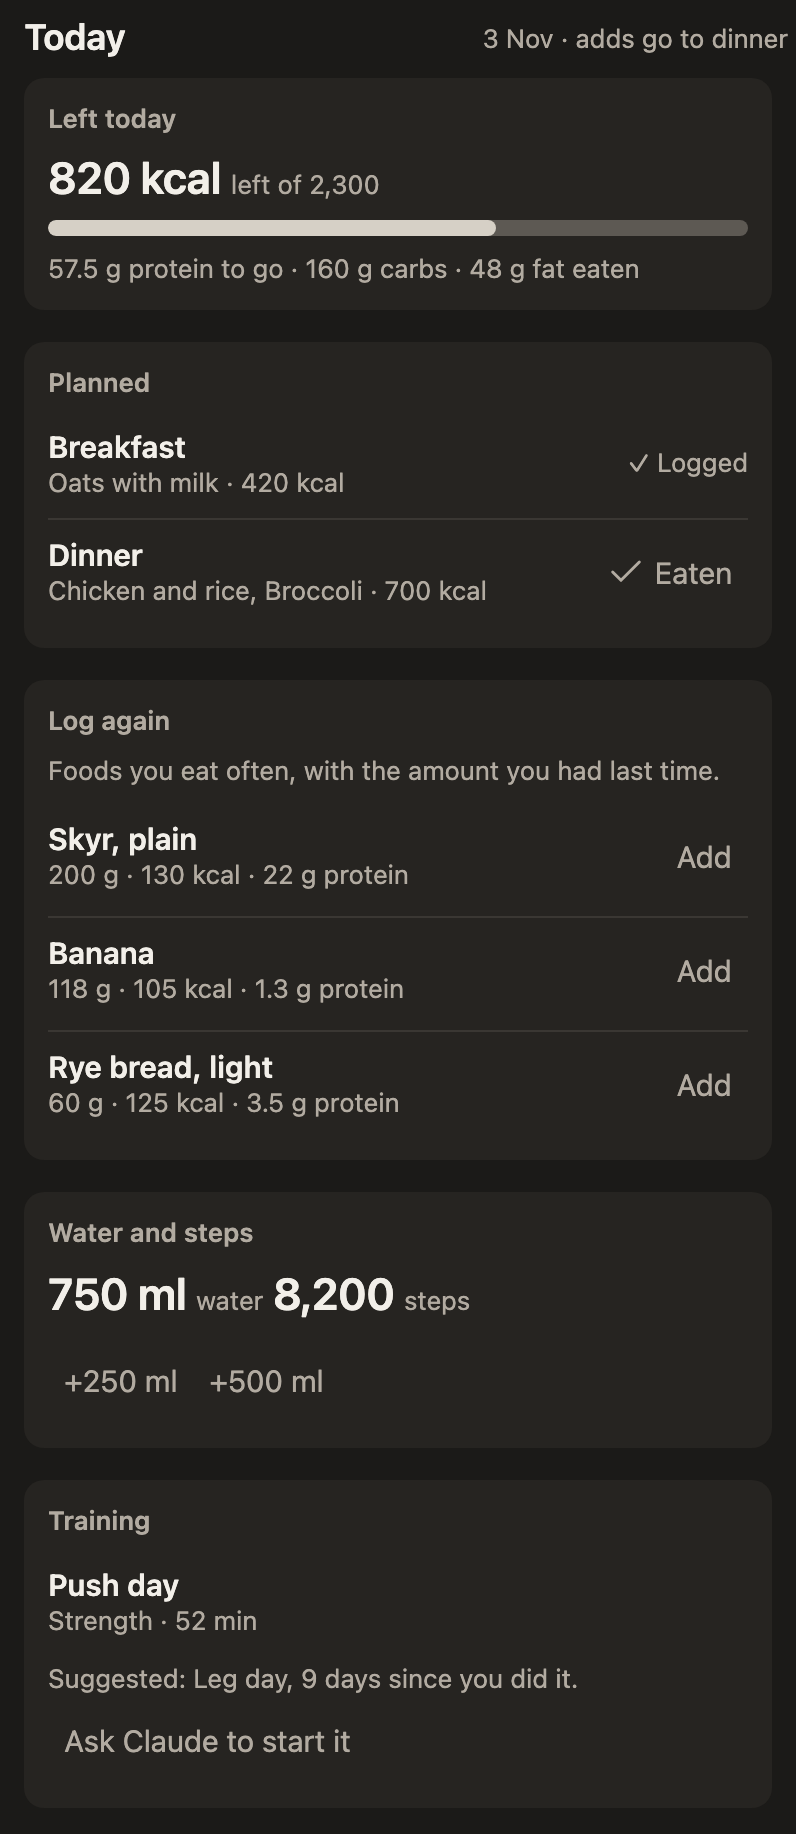
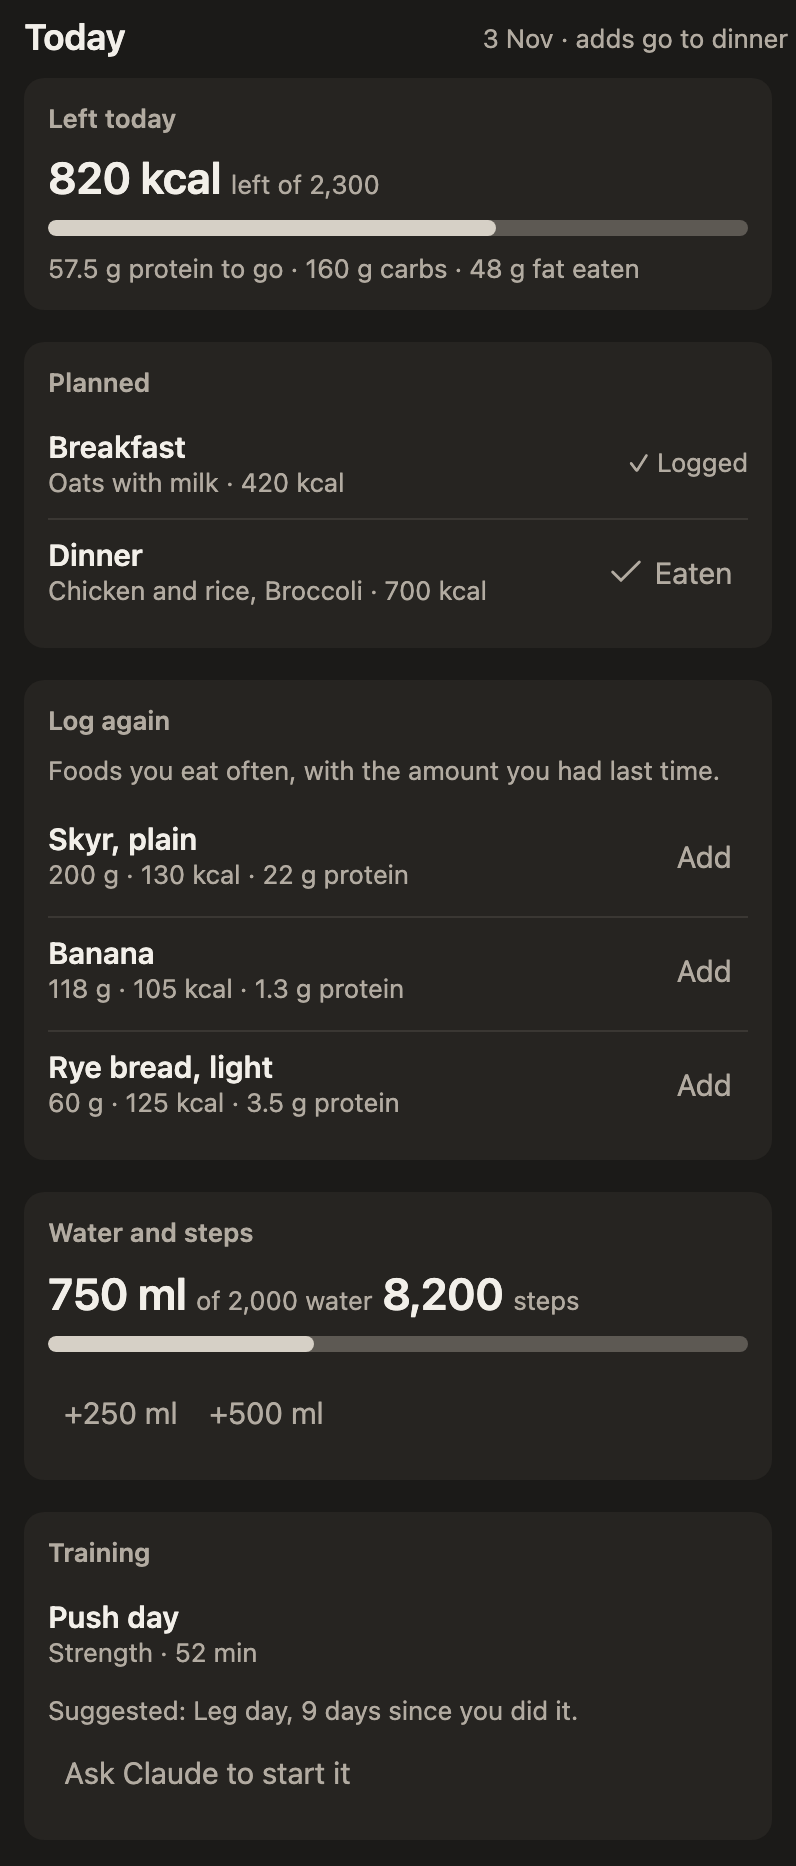
Saved water goal: set_goals water_ml, shown on Today with a bar and counted in get_progress (#132)
Migration 0028 adds goals.water_ml (additive).

diff --git a/apps/mcp/src/data/userData.ts b/apps/mcp/src/data/userData.ts
@@ -40,6 +40,8 @@ export interface Goals {
   addedSugarG: number | null;
   /** Hours of sleep to aim for a night. */
   sleepH: number | null;
+  /** Millilitres of water to drink a day. */
+  waterMl: number | null;
 }
 
 export interface FoodEntry extends Nutrients {
@@ -207,6 +209,7 @@ export class UserData {
       satFatG: (r.sat_fat_g as number | null) ?? null,
       addedSugarG: (r.added_sugar_g as number | null) ?? null,
       sleepH: (r.sleep_h as number | null) ?? null,
+      waterMl: (r.water_ml as number | null) ?? null,
     };
   }
 
@@ -217,21 +220,21 @@ export class UserData {
   }
 
   async setGoals(patch: Partial<Goals>): Promise<Goals> {
-    const empty: Goals = { kcal: null, proteinG: null, carbsG: null, fatG: null, workoutsPerWeek: null, goalWeightKg: null, fiberG: null, satFatG: null, addedSugarG: null, sleepH: null };
+    const empty: Goals = { kcal: null, proteinG: null, carbsG: null, fatG: null, workoutsPerWeek: null, goalWeightKg: null, fiberG: null, satFatG: null, addedSugarG: null, sleepH: null, waterMl: null };
     const before = await this.goals();
     const g = { ...empty, ...before, ...patch };
     // A new goal weight (not a repeat of the same one) starts its streak today, in the person's own time zone.
     const since = g.goalWeightKg === null ? null : g.goalWeightKg === (before?.goalWeightKg ?? null) ? await this.goalWeightSince() : todayIn((await this.profile()).timeZone, new Date(this.now()));
     await this.db
       .prepare(
-        `INSERT INTO goals (user_id, kcal, protein_g, carbs_g, fat_g, workouts_per_week, goal_weight_kg, fiber_g, sat_fat_g, added_sugar_g, sleep_h, goal_weight_since, updated_at)
-         VALUES (?, ?, ?, ?, ?, ?, ?, ?, ?, ?, ?, ?, ?)
+        `INSERT INTO goals (user_id, kcal, protein_g, carbs_g, fat_g, workouts_per_week, goal_weight_kg, fiber_g, sat_fat_g, added_sugar_g, sleep_h, water_ml, goal_weight_since, updated_at)
+         VALUES (?, ?, ?, ?, ?, ?, ?, ?, ?, ?, ?, ?, ?, ?)
          ON CONFLICT (user_id) DO UPDATE SET kcal = excluded.kcal, protein_g = excluded.protein_g, carbs_g = excluded.carbs_g,
            fat_g = excluded.fat_g, workouts_per_week = excluded.workouts_per_week, goal_weight_kg = excluded.goal_weight_kg,
-           fiber_g = excluded.fiber_g, sat_fat_g = excluded.sat_fat_g, added_sugar_g = excluded.added_sugar_g, sleep_h = excluded.sleep_h,
+           fiber_g = excluded.fiber_g, sat_fat_g = excluded.sat_fat_g, added_sugar_g = excluded.added_sugar_g, sleep_h = excluded.sleep_h, water_ml = excluded.water_ml,
            goal_weight_since = excluded.goal_weight_since, updated_at = excluded.updated_at`,
       )
-      .bind(this.userId, g.kcal, g.proteinG, g.carbsG, g.fatG, g.workoutsPerWeek, g.goalWeightKg, g.fiberG, g.satFatG, g.addedSugarG, g.sleepH, since, this.now())
+      .bind(this.userId, g.kcal, g.proteinG, g.carbsG, g.fatG, g.workoutsPerWeek, g.goalWeightKg, g.fiberG, g.satFatG, g.addedSugarG, g.sleepH, g.waterMl, since, this.now())
       .run();
     return g;
   }

diff --git a/apps/mcp/src/tools/profile.ts b/apps/mcp/src/tools/profile.ts
@@ -121,7 +121,7 @@ export function registerProfileTools(server: McpServer, deps: { data: UserData; 
     'set_goals',
     {
       title: 'Set goals',
-      description: 'Save daily calorie and macro targets, a fibre target, limits for saturated fat and added sugar, hours of sleep a night, workouts per week and goal weight; only the ones given change. Use null to clear one.',
+      description: 'Save daily calorie and macro targets, a fibre target, limits for saturated fat and added sugar, hours of sleep a night, a daily water goal, workouts per week and goal weight; only the ones given change. Use null to clear one.',
       inputSchema: z.object({
         kcal: z.number().min(800).max(6000).nullable().optional(),
         protein_g: z.number().min(0).max(500).nullable().optional(),
@@ -133,6 +133,7 @@ export function registerProfileTools(server: McpServer, deps: { data: UserData; 
         sat_fat_g: z.number().min(0).max(100).nullable().optional().describe('Daily limit for saturated fat'),
         added_sugar_g: z.number().min(0).max(200).nullable().optional().describe('Daily limit for added sugar'),
         sleep_h: z.number().min(4).max(12).nullable().optional().describe('Hours of sleep to aim for a night (4 to 12); the dashboard draws it as a line. Only set it when the person asks for a sleep goal.'),
+        water_ml: z.number().int().min(500).max(10000).nullable().optional().describe('Millilitres of water to drink a day; Today shows how much is left. Only set it when the person asks for a water goal.'),
       }),
       annotations: { readOnlyHint: false, destructiveHint: true, idempotentHint: true },
     },
@@ -148,6 +149,7 @@ export function registerProfileTools(server: McpServer, deps: { data: UserData; 
         ...(a.sat_fat_g !== undefined && { satFatG: a.sat_fat_g }),
         ...(a.added_sugar_g !== undefined && { addedSugarG: a.added_sugar_g }),
         ...(a.sleep_h !== undefined && { sleepH: a.sleep_h }),
+        ...(a.water_ml !== undefined && { waterMl: a.water_ml }),
       };
       const goals = await data.setGoals(patch);
       // Deterministic sanity check: do the macros add up to the calorie target?

diff --git a/apps/mcp/src/analytics/progress.ts b/apps/mcp/src/analytics/progress.ts
@@ -209,7 +209,7 @@ export function buildProgress(i: ProgressInput): Progress {
   const metrics: MetricsProgress = {
     sleep: { daily: sleep, averageHours: mean(sleep.map((x) => x.hours), 1), goalHours: g?.sleepH ?? null },
     steps: { daily: steps, average: mean(steps.map((x) => x.steps), 0) },
-    water: { daily: water, averageMl: mean(water.map((x) => x.ml), 0) },
+    water: { daily: water, averageMl: mean(water.map((x) => x.ml), 0), goalMl: g?.waterMl ?? null, daysMet: g?.waterMl ? water.filter((x) => x.ml >= g.waterMl!).length : null },
   };
 
   return { from: i.from, to: i.to, days, dataFrom, weight, nutrition, training, records, measurements: { types }, metrics, energy: buildEnergy(i, days) };
@@ -254,7 +254,7 @@ export function summarize(p: Progress) {
     records: r.exercises.map((e) => ({ name: e.name, sessions: e.sessions.length, firstE1rmKg: e.firstE1rmKg, latestE1rmKg: e.latestE1rmKg, bestE1rmKg: e.bestE1rmKg, bestDay: e.bestDay })),
     measurements: m.types.map((t) => ({ key: t.key, label: t.label, unit: t.unit, firstDay: t.firstDay, first: t.first, latestDay: t.latestDay, latest: t.latest, change: t.change })),
     energy: { ...p.energy, method: 'Average intake on fully logged days minus the weight trend (least squares) × 7700 kcal/kg; each 0.1 kg a week is about 110 kcal a day. suggest_targets with expenditure_kcal gives macros for any rate.' },
-    dailyMetrics: { sleepAverageHours: x.sleep.averageHours, sleepGoalHours: x.sleep.goalHours, nightsLogged: x.sleep.daily.length, stepsAverage: x.steps.average, stepsDaysLogged: x.steps.daily.length, waterAverageMl: x.water.averageMl, waterDaysLogged: x.water.daily.length },
+    dailyMetrics: { sleepAverageHours: x.sleep.averageHours, sleepGoalHours: x.sleep.goalHours, nightsLogged: x.sleep.daily.length, stepsAverage: x.steps.average, stepsDaysLogged: x.steps.daily.length, waterAverageMl: x.water.averageMl, waterGoalMl: x.water.goalMl, waterDaysMet: x.water.daysMet, waterDaysLogged: x.water.daily.length },
   };
 }
 

diff --git a/apps/mcp/tests/today.test.ts b/apps/mcp/tests/today.test.ts
@@ -147,6 +147,25 @@ describe('water, steps and training', () => {
     expect((await view()).waterMl).toBe(750);
   });
 
+  it('shows the water goal, clears it with null, and refuses a silly one', async () => {
+    expect((await view()).waterGoalMl).toBeNull();
+    await call(client, 'set_goals', { water_ml: 2500 });
+    await call(client, 'today_add_water', { ml: 500 });
+    expect(await view()).toMatchObject({ waterMl: 500, waterGoalMl: 2500 });
+    expect((await call(client, 'set_goals', { water_ml: 50 })).isError).toBe(true);
+    expect((await call(client, 'set_goals', { kcal: 2000 })).data).toMatchObject({ goals: { waterMl: 2500 } }); // other goals leave it alone
+    await call(client, 'set_goals', { water_ml: null });
+    expect((await view()).waterGoalMl).toBeNull();
+  });
+
+  it('get_progress counts the days the water goal was met', async () => {
+    await call(client, 'set_goals', { water_ml: 2000 });
+    await call(client, 'log_body', { day: today, water_ml: 2200 });
+    await call(client, 'log_body', { day: addDays(today, -1), water_ml: 1200 });
+    const p = (await call(client, 'get_progress', { days: 7 })).data as unknown as { dailyMetrics?: { waterGoalMl: number; waterDaysMet: number } };
+    expect(p.dailyMetrics).toMatchObject({ waterGoalMl: 2000, waterDaysMet: 1 });
+  });
+
   it('shows what was trained today, and suggests the saved workout that has waited longest, not a schedule', async () => {
     await call(client, 'update_profile', { weight_kg: 80 });
     await call(client, 'log_cardio', { activity_id: 'act:run-10', duration_min: 30, day: today });

diff --git a/apps/mcp/tests/today-view.test.ts b/apps/mcp/tests/today-view.test.ts
@@ -18,7 +18,7 @@ const today: TodayView = {
     { entryId: 'e1', name: 'Skyr, plain', grams: 200, kcal: 130, protein: 22, estimated: false },
     { entryId: 'e2', name: 'Banana', grams: 118, kcal: 105, protein: 1.3, estimated: true },
   ],
-  waterMl: 750, steps: 8200,
+  waterMl: 750, waterGoalMl: 2000, steps: 8200,
   training: { doneToday: [{ name: 'Push day', type: 'strength', minutes: 52 }], suggested: { name: 'Leg day', daysSince: 9 } },
 };
 const result = (t: TodayView) => ({ content: [{ type: 'text', text: 'open' }], structuredContent: { today: t } });
@@ -40,6 +40,8 @@ describe('the Today view', () => {
     await pwExpect(v.frame.getByText('200 g · 130 kcal · 22 g protein')).toBeVisible();
     await pwExpect(v.frame.getByText('~118 g · 105 kcal')).toBeVisible(); // an estimate is marked
     await pwExpect(v.frame.getByText(/750 ml/)).toBeVisible();
+    await pwExpect(v.frame.getByText('of 2,000 water')).toBeVisible();
+    await pwExpect(v.frame.getByRole('img', { name: '38 % of the water goal' })).toBeVisible();
     await pwExpect(v.frame.getByText(/8,200/)).toBeVisible();
     await pwExpect(v.frame.getByText('Push day')).toBeVisible();
     await pwExpect(v.frame.getByText(/Suggested: Leg day, 9 days since you did it/)).toBeVisible();

diff --git a/apps/mcp/ui/today/main.ts b/apps/mcp/ui/today/main.ts
@@ -92,7 +92,8 @@ function draw() {
       'section',
       { className: 'card', 'aria-label': 'Water and steps' },
       h('h2', {}, 'Water and steps'),
-      h('p', { className: 'headline' }, `${t.waterMl.toLocaleString('en-US')} ml `, h('small', {}, 'water'), t.steps !== null ? h('span', {}, `  ${t.steps.toLocaleString('en-US')} `) : null, t.steps !== null ? h('small', {}, 'steps') : null),
+      h('p', { className: 'headline' }, `${t.waterMl.toLocaleString('en-US')} ml `, h('small', {}, t.waterGoalMl ? `of ${t.waterGoalMl.toLocaleString('en-US')} water` : 'water'), t.steps !== null ? h('span', {}, `  ${t.steps.toLocaleString('en-US')} `) : null, t.steps !== null ? h('small', {}, 'steps') : null),
+      t.waterGoalMl ? h('div', { className: 'bar', role: 'img', 'aria-label': `${Math.min(100, Math.round((t.waterMl / t.waterGoalMl) * 100))} % of the water goal` }, h('i', { css: { width: `${Math.min(100, Math.round((t.waterMl / t.waterGoalMl) * 100))}%` } })) : null,
       h('div', { className: 'choices' }, ...[250, 500].map((ml) => textButton(null, `+${ml} ml`, () => void act(`water:${ml}`, 'today_add_water', { ml }), { disabled: state.busy.has(`water:${ml}`), label: `Add ${ml} millilitres of water` }))),
     ),
     h(

diff --git a/apps/mcp/src/analytics/types.ts b/apps/mcp/src/analytics/types.ts
@@ -87,7 +87,7 @@ export interface MeasurementProgress {
 export interface MetricsProgress {
   sleep: { daily: { day: Day; hours: number }[]; averageHours: number | null; /** The person's sleep goal in hours a night; null when they have none. */ goalHours: number | null };
   steps: { daily: { day: Day; steps: number }[]; average: number | null };
-  water: { daily: { day: Day; ml: number }[]; averageMl: number | null };
+  water: { daily: { day: Day; ml: number }[]; averageMl: number | null; goalMl: number | null; /** Logged days at or over the goal. */ daysMet: number | null };
 }
 
 /** Energy expenditure measured from the person's own intake and weight trend (last 28 days of the period). */

diff --git a/apps/landing/site/src/lib/tools.ts b/apps/landing/site/src/lib/tools.ts
@@ -61,7 +61,7 @@ export const CATEGORIES: Category[] = [
         name: "set_goals",
         kind: "saves",
         asks: true,
-        what: "Saves calorie and macro targets, a fibre target, limits for saturated fat and added sugar, sleep, workouts per week and a goal weight. Only what you name changes.",
+        what: "Saves calorie and macro targets, a fibre target, limits for saturated fat and added sugar, sleep, a daily water goal, workouts per week and a goal weight. Only what you name changes.",
         ask: "Set my goals to 2,300 kcal and 150 g of protein.",
       },
     ],

diff --git a/apps/mcp/scripts/screenshots-social.ts b/apps/mcp/scripts/screenshots-social.ts
@@ -51,7 +51,7 @@ const todayView: TodayView = {
     { entryId: 'e2', name: 'Banana', grams: 118, kcal: 105, protein: 1.3, estimated: false },
     { entryId: 'e3', name: 'Rye bread, light', grams: 60, kcal: 125, protein: 3.5, estimated: false },
   ],
-  waterMl: 750, steps: 8200,
+  waterMl: 750, waterGoalMl: 2000, steps: 8200,
   training: { doneToday: [{ name: 'Push day', type: 'strength', minutes: 52 }], suggested: { name: 'Leg day', daysSince: 9 } },
 };
 

diff --git a/apps/mcp/src/analytics/todayTypes.ts b/apps/mcp/src/analytics/todayTypes.ts
@@ -32,6 +32,8 @@ export interface TodayView {
   planned: TodayMeal[];
   quickAdd: TodayQuickAdd[];
   waterMl: number;
+  /** The daily water goal in millilitres, when there is one. */
+  waterGoalMl: number | null;
   steps: number | null;
   training: {
     doneToday: { name: string; minutes: number | null; type: 'strength' | 'cardio' | 'session' }[];

diff --git a/apps/mcp/src/analytics/today.ts b/apps/mcp/src/analytics/today.ts
@@ -71,6 +71,7 @@ export async function buildToday(deps: TodayDeps, now: Date = new Date()): Promi
     planned,
     quickAdd,
     waterMl: metrics?.waterMl ?? 0,
+    waterGoalMl: goals?.waterMl ?? null,
     steps: metrics?.steps ?? null,
     training: { doneToday, suggested },
   };

diff --git a/apps/landing/site/src/routes/index.tsx b/apps/landing/site/src/routes/index.tsx
@@ -47,7 +47,7 @@ const SIZES: Record<string, [number, number]> = {
   review: [796, 1216],
   milestone: [796, 842],
   crew: [796, 1570],
-  today: [796, 1834],
+  today: [796, 1866],
   mealplan: [796, 1702],
   household: [796, 1046],
   sharecard: [1080, 1350],
